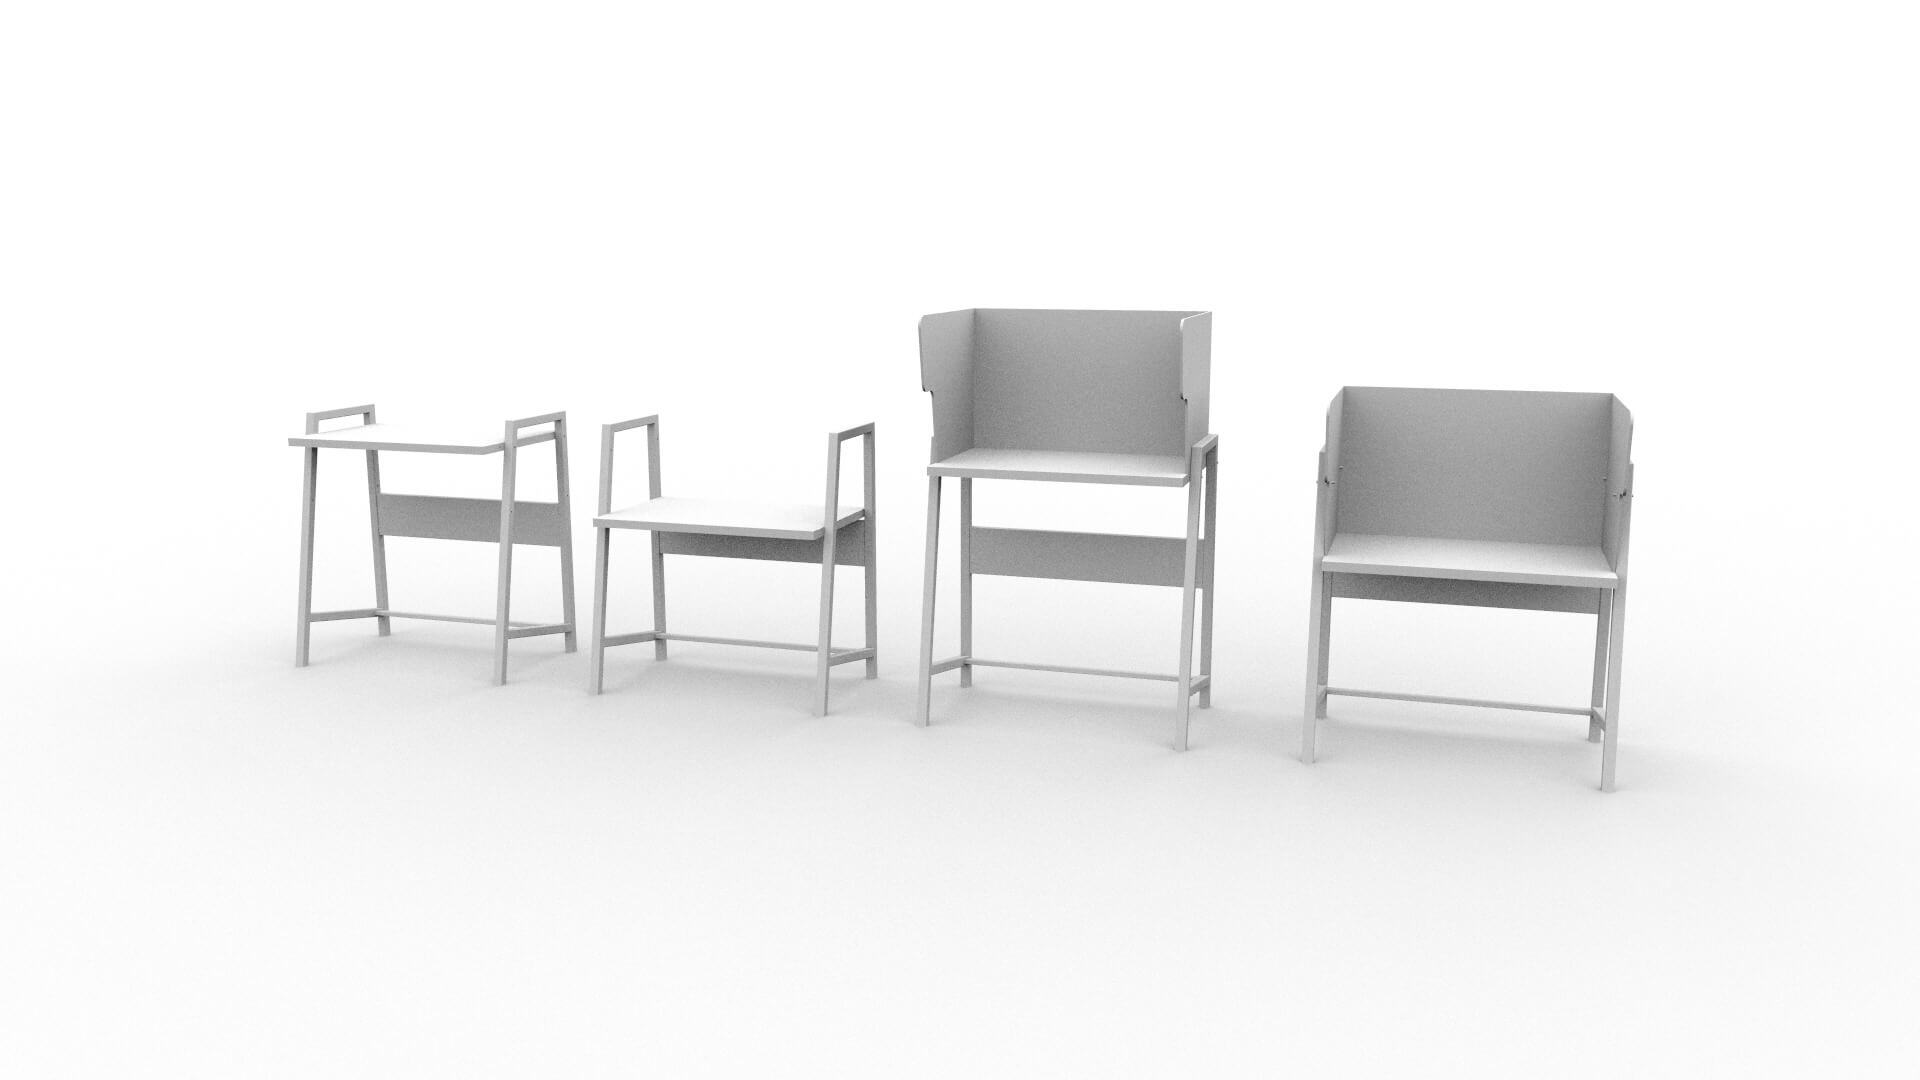
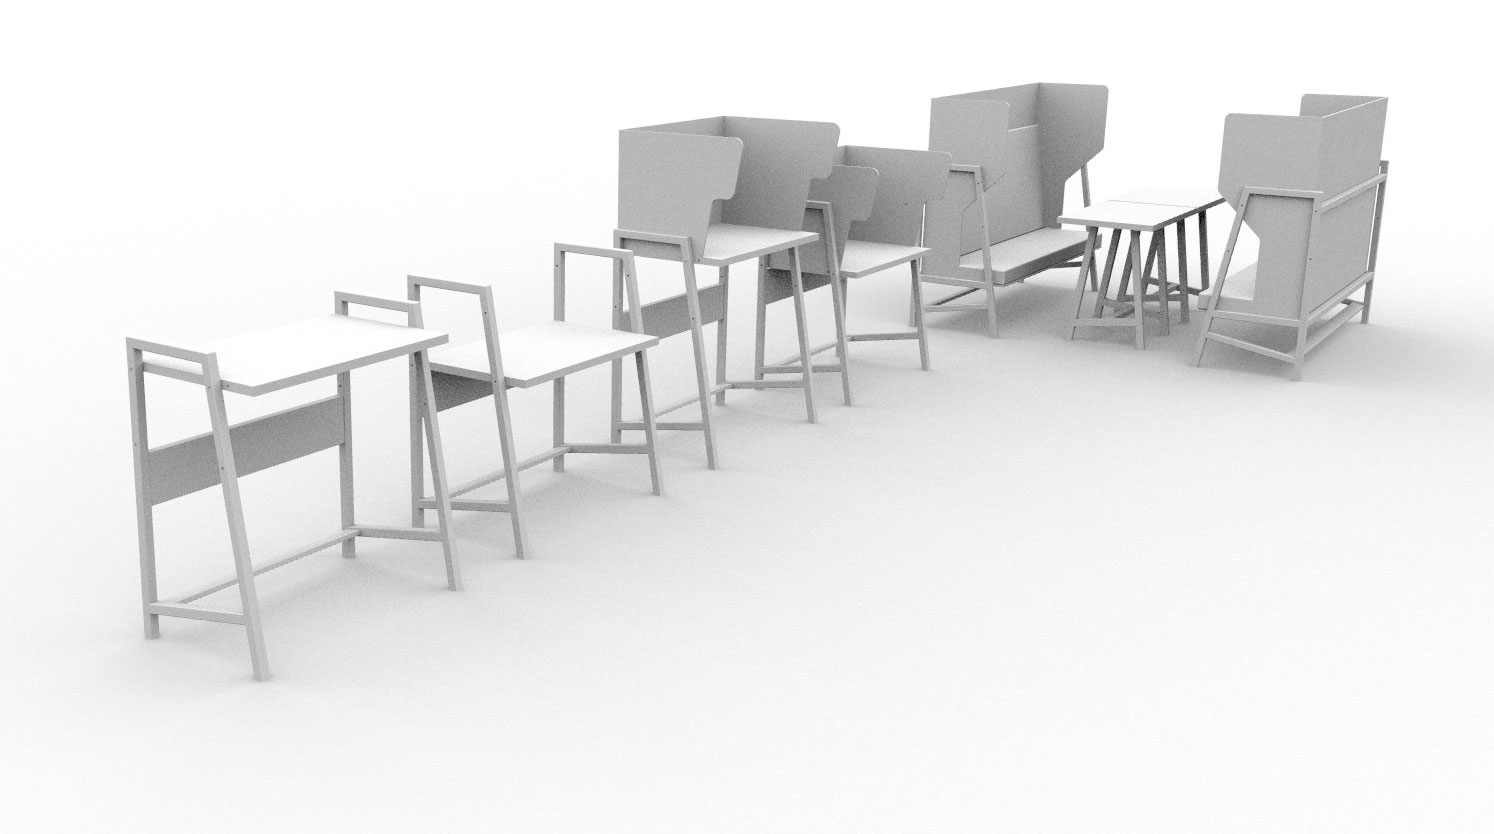
Text and Imgs updated!

Changed region(s): [[0.0616, 0.0935, 1.0, 0.8417]]

diff --git a/index.html b/index.html
@@ -39,14 +39,16 @@
         <div class="container">
             <div class="home__inner">
                 <div class="home__text">
-                    <p>twofiveseven is an impact-focused collaborative work space in whanganui-a-tara.</p>
-
-                        <p>with permanent and flexi desks,  private office rental and sanitised meeting spaces.</p>
-                        
-                        <p>a mental health gym, organisational development services, urban gardens, home desk rental and an onsite café.</p>
-                        
-                        <p>whatever your workstyle, we’re here to help you thrive.
-                        <span class="cursor">_</span></p>
+                    <p>twofiveseven is a workspace for a new world</p>
+                    <ul class="text-list--large">
+                        <li>private team office to rent by the day</li>
+                        <li>meeting spaces hourly or daily</li>
+                        <li>permanent and flexi deskspace</li>
+                        <li>home office setups</li>
+                        <li>mental health gym</li>
+                        <li>onsite café</li>
+                    </ul>
+                    <p>whatever your new work style, we’re here to help you thrive<span class="cursor">_</span></p>
                 </div>
 
             </div>
@@ -59,9 +61,9 @@
                 <h3 class="section__title">our space</h3>
             </div>
             <div class="space__info-top">
-                <p class="space__text-intro">wellington’s newest home for small business, startups, social enterprise, charities and impact organisations</p>
+                <p class="space__text-intro">with a range of spaces to suit you and your team’s needs, our space is designed to be sustainable, safe and supportive:</p>
             </div>
-            <p class="space__text-intro-list">with a range of spaces to suit you and your team’s needs:</p>
+            <!-- <p class="space__text-intro-list">with a range of spaces to suit you and your team’s needs:</p>
             <ul class="text-list text-list--large">
                 <li>permanent desks</li>
                 <li>flexible desks</li>
@@ -71,26 +73,28 @@
                 <li>large event space</li>
                 <li>café and casual meeting area</li>
                 <li>secluded space for breaks</li>
-            </ul>
+            </ul> -->
             <div class="single-column">
-                <p>our space is designed to be sustainable, safe and supportive:</p>
+                <!-- <p>our space is designed to be sustainable, safe and supportive:</p> -->
             <ul class="text-list">
-                <li>covid responsive design features from experienced lab designers <a href="https://www.studiopacific.co.nz/" target="_blank"
+                <li>covid responsive design by experienced lab designers <a href="https://www.studiopacific.co.nz/" target="_blank"
                     rel="noreffer noopener">studio pacific architecture</a></li>
-                <li>brand new ventilation systems</li>
-                <li>regular deep cleaning from impact driven cleaners <a href="https://www.freshdesk.co.nz" target="_blank"
+                <li>brand new ventilation and clean air systems</li>
+                <li>cleaned by impact-driven cleaners <a href="https://www.freshdesk.co.nz" target="_blank"
                     rel="noreffer noopener">fresh desk</a></li>
+                    <li>custom covid responsive furniture by <a href="http://www.designtree.co.nz" target="_blank" rel="noreffer noopener">designtree</a></li>
+                    <li>walls by local circular economy <a href="https://x-frame.org" target="_blank" rel="noreffer noopener">x-frame</a></li>
                 <li>locally made bespoke hand sanitiser supply from <a href="https://ofbody.nz" target="_blank"
                     rel="noreffer noopener"> of body</a></li>
-                <li>our walls are made by local circular economy heroes <a href="https://x-frame.org">x-frame</a></li>
-                <li>onsite café with food by <a href="https://www.instagram.com/plantblazedlife/" target="_blank"
-                    rel="noreffer noopener"></a> plant blazed</li>
+
+                <!-- <li>onsite café with food by <a href="https://www.instagram.com/plantblazedlife/" target="_blank"
+                    rel="noreffer noopener"></a> plant blazed</li> -->
                 <li>aotearoa’s only mental health gym by <a href="https://www.coliberate.co.nz" target="_blank" rel="noreffer noopener">coliberate</a></li>
                 <li>we will be certified carbon positive by <a href="https://ekos.org.nz" target="_blank" rel="noreffer noopener">ekos</a> once we have operation data available</li>
-                <li>twofiveseven will be <a href="https://www.livingwage.org.nz" target="_blank" rel="noreffer noopener">living wage</a> accredited - helping you and your organisation maintain or develop your own certification if you use our space</li>
+                <li>we will be <a href="https://www.livingwage.org.nz" target="_blank" rel="noreffer noopener">living wage</a> accredited</li>
                 <li>we are planning to be open in november 2020</li>
             </ul>
-             <p>we are making a special place for you, your team and your work to thrive—hit the button to get yourself an instant quote</a></p>
+             <p>twofiveseven is the place for you, your team and your work to thrive</a></p>
             </div>
         </div>
 
@@ -102,19 +106,18 @@
                 <div class="section__title-box">
                     <h3 class="section__title">our team office</h3>
                 </div>
-                <img class="private-office__img" src="img/twofiveseven-team-office-space.png"
-                    alt="private office space">
-                <p class="text--large">a full feature private office space available to hire by the day, cleaned and ready to go whenever you need to get your team together</p>
+                <img class="private-office__img" src="img/257-day-office.png" alt="day office space">
+                <p class="text--large">an office for remote work - use our private day office only when you need it and don’t pay for it when you don’t</p>
                 <div class="two-columns">
                     <div class="column-1">
-                        <p>our full feature private office includes:</p>
-                        <ul class="text-list">
+                        <p>our full feature private team office includes:</p>
+                            <ul class="text-list">
                             <li>fifteen sit/stand/call work desks</li>
                             <li>two meetup booths</li>
                             <li>two café meeting tables</li>
                             <li>one or two meeting rooms</li>
-                            <li>printing facilities</li>
-                            <li>our onsite reception to look after your visitors</li>
+                            <li>video conferencing and printing facilities</li>
+                            <li>our reception to look after your visitors</li>
                         </ul>
                     </div>
                     <div class="column-2">
@@ -124,7 +127,7 @@
                             <li>deep clean between users</li>
                             <li>food and coffee delivery right to your workspace</li>
                         </ul>
-                        <p>if your team is working remotely and just needs to get together once a week, month, quarter or whenever—we got you covered</p>
+                        <p>if your team is working remotely and just needs to get together once a week, month, quarter or whenever</p>
                     </div>
                 </div>
             </div>
@@ -135,25 +138,26 @@
             <div class="section__title-box">
                 <h3 class="section__title">our furniture</h3>
             </div>
-            <p class="text--large text--shadow">our furniture will be custom made with covid design considerations from materials we’ve prevented from going to landfill</p>
+            <p class="text--large text--shadow">designed with covid safety and remote calling in mind, from materials we’ve prevented from going to landfill</p>
             <div class="single-column">
-                <p>our furniture is super sustainable:</p>
+                <p>our furniture is going to be pretty special:</p>
                 <ul class="text-list">
-                    <li><a href="http://www.designtree.co.nz" target="_blank" rel="noreffer noopener">designtree</a> are creating our custom furniture range from materials salvaged from the old office fitout previously in the space</li>
-                    <li>meaning we’re dramatically reducing waste and our carbon footprint - something we are striving for across all of our construction and development</li>
+                    <li>made from materials salvaged from old office fitouts in wellington</li>
+                    <li>local designers <a href="http://www.designtree.co.nz" target="_blank" rel="noreffer noopener">designtree</a> are making it just for us</li>
+                    <li>it will help keep our waste and carbon footprint low (and yours too)</li>
                 </ul>
                 <p>and we’re developing it to suit our new work environment:</p>
                 <ul class="text-list">
-                    <li>we’ve partnered with local research startup <a href="https://stickybeak.co" target="_blank" rel="noreffer noopener">stickybeak</a> to define the fast developing new needs of local office users</li>
-                    <li>our desks offer sit and stand positions, and come with an optional full privacy guard so you are able to comfortably video call and safely physical distance at your desk</li>
-                    <li>we’re also providing home desk rental. we think having the same desks at both office and home will make the transitions a whole lot easier</li>
+                    <li>local research startup <a href="https://stickybeak.co" target="_blank" rel="noreffer noopener">stickybeak</a> has helped us define the new needs of office space</li>
+                    <li>sits, stand, and make calls from your desk - all with a built in privacy and sneeze guard</li>
+                    <li>home desk rental available - streamline your moves between home and office</li>
                 </ul>
-                <p>twofiveseven is working to help a sustainable world emerge—while supporting you to be a part of it</p>
+                <p>twofiveseven is helping to create a safe and sustainable world for all of us</p>
             </div>
         </div>
     </section>
 
-    <section id="story" class="story">
+    <!-- <section id="story" class="story">
         <div class="container">
             <div class="section__title-box">
                 <h3 class="section__title">our story</h3>
@@ -177,7 +181,7 @@
                 </div>
             </div>
         </div>
-    </section>
+    </section> -->
 
     <section id="partners" class="partners">
         <div class="container">
@@ -260,7 +264,7 @@
                     </div>
                 </a>
 
-                <a href="https://www.instagram.com/plantblazedlife/" target="_blank" rel="noreffer noopener"
+                <!-- <a href="https://www.instagram.com/plantblazedlife/" target="_blank" rel="noreffer noopener"
                     class="partners__link">
                     <div class="partners__single">
                         <div class="partners__logo-holder"><img src="img/logo-plant-blased.jpg" alt="Plant Blazed"
@@ -268,7 +272,7 @@
                         <h3 class="partners__title">Plant Blazed</h3>
                         <p class="partners__text">100% P L A N T B A S E D</p>
                     </div>
-                </a>
+                </a> -->
 
                 <a href="https://www.freshdesk.co.nz/" target="_blank" rel="noreffer noopener" class="partners__link">
                     <div class="partners__single">

diff --git a/letslightthiscandle.scss b/letslightthiscandle.scss
@@ -9,7 +9,6 @@
     --color-peach: #fd807a;
 
     --font-rubik: 'Rubik', arial, helvetica, sans-serif;
-
     --box-shadow: 3px 3px 0 var(--color-black);
 }
 
@@ -53,7 +52,6 @@ img {
 }
 
 // LINK STYLING
-
 a {
     text-decoration: none;
     color: var(--color-black);
@@ -94,22 +92,29 @@ h3 {
         margin-bottom: 0.6rem;
 
         &::before {
-            content: '';
-            display: inline-block;
-            background: black;
-            height: 2px;
-            width: 2rem;
-            margin-bottom: 0.25em;
-            margin-right: 0.4rem;
+            content: '+ ';
+            // display: inline-block;
+            // background: black;
+            // height: 2px;
+            // width: 2rem;
+            // margin-bottom: 0.25em;
+            // margin-right: 0.4rem;
         }
     }
 
     &--large {
-        font-size: 1.8rem;
-        line-height: 1.2;
+        font-family: var(--font-rubik);
+        font-size: 1.6rem;
+        line-height: 1.6;
         font-weight: 500;
         margin-left: -2.4rem;
-        margin-bottom: 8rem;
+        margin-bottom: 1rem;
+        list-style: none;
+        & li {
+            &::before {
+                content: '+ ';
+            }
+        }
     }
 }
 
@@ -452,6 +457,7 @@ section {
     min-height: 100vh;
     display: flex;
     align-items: center;
+    background: #f7726b;
 
     &__img {
         margin: 2rem 0 1rem 0;
@@ -462,7 +468,7 @@ section {
     min-height: 100vh;
     padding: 1rem 0 8rem;
     background-color: #fff;
-    background-image: url('img/twofiveseven-coworking-furniture.jpg');
+    background-image: url('img/257-furniture.jpg');
     background-position: 100% 80%;
     background-size: contain;
     background-attachment: fixed;

diff --git a/letslightthiscandle.css b/letslightthiscandle.css
@@ -87,21 +87,21 @@ h3 {
 }
 
 .text-list li::before {
-  content: '';
-  display: inline-block;
-  background: black;
-  height: 2px;
-  width: 2rem;
-  margin-bottom: 0.25em;
-  margin-right: 0.4rem;
+  content: '+ ';
 }
 
 .text-list--large {
-  font-size: 1.8rem;
-  line-height: 1.2;
+  font-family: var(--font-rubik);
+  font-size: 1.6rem;
+  line-height: 1.6;
   font-weight: 500;
   margin-left: -2.4rem;
-  margin-bottom: 8rem;
+  margin-bottom: 1rem;
+  list-style: none;
+}
+
+.text-list--large li::before {
+  content: '+ ';
 }
 
 .header {
@@ -516,6 +516,7 @@ section {
   -webkit-box-align: center;
       -ms-flex-align: center;
           align-items: center;
+  background: #f7726b;
 }
 
 .private-office__img {
@@ -526,7 +527,7 @@ section {
   min-height: 100vh;
   padding: 1rem 0 8rem;
   background-color: #fff;
-  background-image: url("img/twofiveseven-coworking-furniture.jpg");
+  background-image: url("img/257-furniture.jpg");
   background-position: 100% 80%;
   background-size: contain;
   background-attachment: fixed;
